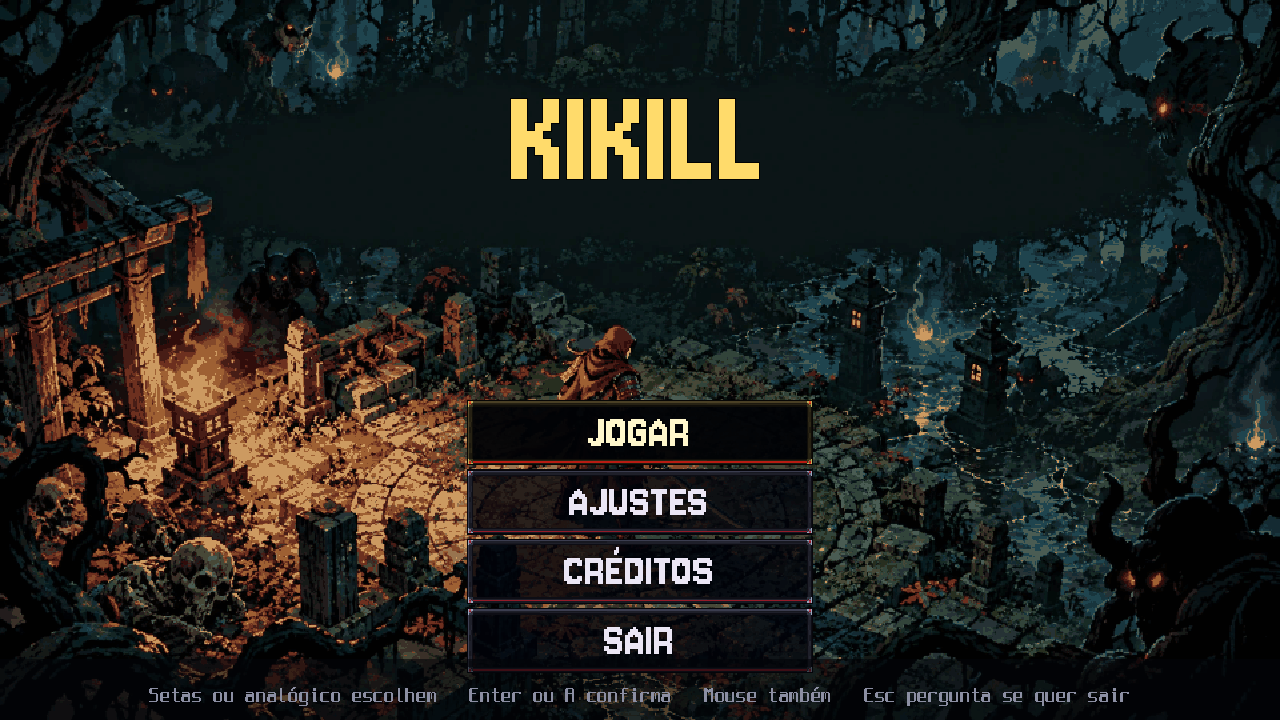
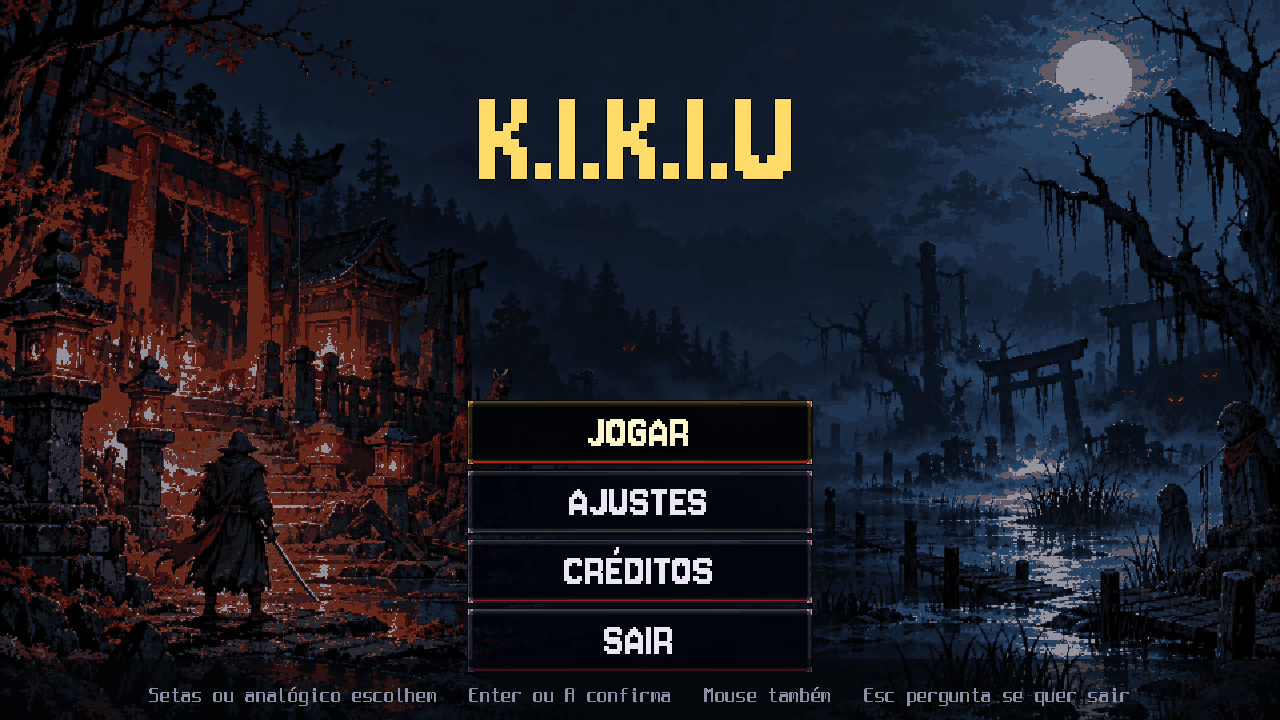
v2 menu: nome K.I.K.I.U e arte nova de título (GPT, Alisson)
- Logo, testes, LEIA-ME e LOGBOOK: o nome do jogo fica K.I.K.I.U (com pontos).
- fonte_arte/fundo_titulo_fonte.webp: arte nova gerada no GPT pelo Alisson. gerar_fundo_titulo.py lê dela (BOX, 48 cores, 960x540) e gera assets/titulo/fundo.png.
- Logo no centro-superior e menu no centro-inferior; a faixa escura só atrás da dica fica (sem ela, o pior 1% dos pixels cai para 1,06:1).
- docs/LICENCAS_ARTE.md: registro da arte como própria, gerada no GPT pelo Alisson.
- docs/imagens/v2_menu_principal.png refeito com --fotos (janela).

Testes (headless, Godot 4.4.1): v2_menu, entrada_cenas e v2_esc com falhas=0.

diff --git a/jogos/hordas/fonte_arte/gerar_fundo_titulo.py b/jogos/hordas/fonte_arte/gerar_fundo_titulo.py
@@ -1,20 +1,23 @@
-"""Gera o fundo da tela de título da v2 (v2/menu_principal.tscn): a arte da entrada, sem o título K.I.K.I.U, em 960x540.
+"""Gera o fundo da tela de título da v2 (v2/menu_principal.tscn): a arte sem o título K.I.K.I.U, em 960x540.
 
 Roda:  python gerar_fundo_titulo.py          (precisa de Pillow)
-Entrada: entrada_fonte.webp (arte do Alisson, 1672x941, com a faixa escura vazia no terço de cima para o logo)
+Entrada: fundo_titulo_fonte.webp (arte gerada no GPT pelo Alisson, 1672x941; o centro-superior e o centro-inferior são escuros,
+         livres para o logo e o menu)
 Saída:   ../projeto/assets/titulo/fundo.png
 
 Mesmo pipeline do gerar_entrada.py (recorte 16:9, redução BOX, 48 cores com mediana de corte e sem dithering), só que no
-tamanho da tela da v2 (960x540) e sem desenhar o título: o logo KIKILL e os botões são desenhados pelo Godot por cima.
+tamanho da tela da v2 (960x540) e sem desenhar o título: o logo K.I.K.I.U e os botões são desenhados pelo Godot por cima.
+A arte não tem grade de pixel fixa (conferido: a troca de cor não se concentra em nenhum resto de x ou y), por isso BOX e não NEAREST.
 """
 
 import os
 
 from PIL import Image
 
-from gerar_entrada import FONTE_ARTE, recortar_16_9
+from gerar_entrada import recortar_16_9
 
 AQUI = os.path.dirname(os.path.abspath(__file__))
+FONTE = os.path.join(AQUI, "fundo_titulo_fonte.webp")
 SAIDA = os.path.join(AQUI, "..", "projeto", "assets", "titulo", "fundo.png")
 
 W, H = 960, 540
@@ -22,7 +25,7 @@ CORES = 48
 
 
 def main():
-    arte = recortar_16_9(Image.open(FONTE_ARTE).convert("RGB"))
+    arte = recortar_16_9(Image.open(FONTE).convert("RGB"))
     img = arte.resize((W, H), Image.Resampling.BOX)
     img = img.quantize(colors=CORES, method=Image.Quantize.MEDIANCUT, dither=Image.Dither.NONE).convert("RGB")
     os.makedirs(os.path.dirname(SAIDA), exist_ok=True)

diff --git a/jogos/hordas/projeto/v2/LEIA-ME.md b/jogos/hordas/projeto/v2/LEIA-ME.md
@@ -31,7 +31,7 @@ Rodar: o jogo já abre na v2 (a cena principal é o título, `res://v2/menu_prin
 | `hud.gd/.tscn` | HUD numa CanvasLayer (layer 10) dentro da apresentação, sem luz do mundo. Vida, fôlego, XP com selo de nível (almas rolam na barra), tempo que pisca a cada minuto, abates, vivos, combo com soco e cor por marco, brilho e pop ao subir de nível com anel de luz, vinheta e pisca da vida abaixo de 25%, barra de chefe com fantasma (`chefe_apareceu`, `chefe_vida`). Liga cada sinal do mundo só se ele existir. Lê `mundo` e `mundo.heroi` com `get()` e valor padrão. `criar(mundo)` é a linha do `mundo.gd`. Molduras e barras em `hud/` (PNG gerados por `hud/gerar_molduras.py`, Pillow). |
 | `hud_anuncios.gd` | Faixa de anúncio no centro alto (um por vez, fila de até 5). Entra com escala 1,4 e brilho, segura ~1,2 s e sai. Cor por tipo: `onda_forte` vermelho, `elite_apareceu` roxo, `evolucao` dourado, nível azul-claro, `anuncio(texto, cor)` livre. Marcos de combo (10, 25, 50, 100, 200) mudam a intensidade. Um nó só, sem nó por anúncio. |
 | `status.gd` | Card "SUA BUILD": tudo o que a build faz, em números reais. `Status.coletar(mundo)` (estática, sem desenhar) devolve as seções em dados simples (herói, katana, golpes automáticos, partida e Santuário), cada linha com o texto e os números crus (`n`); nenhuma fórmula é copiada: cada número vem do getter do módulo dono (`heroi.vel_andar/vel_correr/alcance_ima/duracao_do_passo`, `combate.dano_do_passo/alcance_efetivo_do_passo/arco_do_passo/chance_critico/ciclo_do_combo/passos_de`, `progresso.cura_por_nivel`, `armas.numeros/pct_onda/dano_da_onda/dano_da_lanca/n_lancas`, `cartas.evolucoes_com`, `Meta.almas_creditadas`), e o jogo usa os mesmos getters. Como ler os números: "Combo completo" é o ciclo REAL (os passos com a velocidade de ataque + o hit-stop de cada acerto + a pausa do fim do combo), nos quadros de 60 Hz (`combate.ciclo_do_combo`); "Alcance" é o efetivo (alcance com a área + o avanço do golpe); o crítico para em 100% e os percentuais ganham uma casa decimal só quando precisam (17,5%); "Almas a receber" é o que o fim da partida credita (com o bônus "Almas abundantes"); "Recupera em ação" é a taxa do fôlego andando OU golpeando (a rápida só vale livre e parado); a onda mostra o dano de cada corte do combo e a lança o de cada estocada (pelo NOME do passo); o "poder ~" é uma ESTIMATIVA de dano por segundo por monstro (veja `armas.numeros`: a runa conta só as que nascem sobre o monstro, o arco elétrico da Revoada fica de fora, a explosão em área bate em todos em volta). As dicas de evolução dizem "Evolução perdida" quando uma peça foi banida abaixo do nível pedido, e a peça gasta na Ventania mostra "evoluída" em vez de um nível parado. TRÊS modos (`_modo()`): **hud** (a tecla C na partida liga e desliga um card COMPACTO na camada 8, abaixo do HUD: semitransparente, uma linha por golpe e por modificador com ícone, nome curto (`curto` em `v2_cartas.json`), nível e número, sem dicas e sem as linhas que o HUD já mostra; as colunas ficam fora do minimapa, do combo, da barra de XP, da barra do chefe e dos anúncios; cabe com a build máxima, o que o teste prova), **pausa** (as colunas ladeiam o menu na tela "menu", camada 15, layout completo com as dicas; somem em Ajustes e nas confirmações, `pausa.gd` chama `status.na_pausa`) e **central** (sobre a escolha de cartas e o baú o C abre um painel de três colunas no layout completo, camada 13, com o fundo opaco: ele ESCONDE as cartas, nada fica pela metade; enquanto está aberto o card engole clique, tecla e botão, menos o ESC, então nenhuma carta é escolhida, rerrolada ou banida, e a trava de 3 s das cartas segue correndo em tempo real; com o painel fechado o card compacto some nessas telas, porque cobriria a 1ª e a 3ª carta, e volta quando elas fecham). Texto longo quebra em linhas e o teste cobre a build vazia, a de meio de partida, a máxima e o Santuário todo comprado nos três modos (nada estoura a largura nem é cortado na altura). Atualiza a 4 Hz com um `Timer` que só corre com o card ligado (sem `_process`); desenho num Control só (nenhum nó por linha): moldura de `hud/moldura_pedra.png`, títulos na Jersey 10, texto na Spleen 8x16 e números na Press Start 2P. PENDÊNCIA: o texto do card sai na Spleen em 11 e 12 px, fora da grade de 16 px da regra das fontes (em 16 px as colunas não cabem); legível nos prints, e o tamanho certo seria a Spleen 6x12, da mesma família. A entrada do C vem do `mundo.gd` (`status.entrada(e)`), porque os nós dentro do SubViewport da partida não recebem a entrada da janela. Risco que fica: `armas.numeros` ainda é uma segunda cópia da conta de cada golpe automático (o teste confere cada tipo contra a simulação) e `_sec_heroi` calcula as esquivas seguidas (fôlego máximo / gasto) como o `pode_esquivar` do herói. |
-| `menu_principal.gd/.tscn` | Tela de título, a cena principal (`project.godot`): logo KIKILL sobre a arte de entrada (`assets/titulo/fundo.png`, gerada por `fonte_arte/gerar_fundo_titulo.py`) e Jogar (vai ao santuário), Ajustes (o submenu da pausa), Créditos (a tela da pausa) e Sair (pede confirmação). Mouse, teclado e controle; ESC e Start pedem "Sair?". Toca a faixa do santuário. `testes/v2_menu` cobre a tela. |
+| `menu_principal.gd/.tscn` | Tela de título, a cena principal (`project.godot`): logo K.I.K.I.U sobre a arte de título (`assets/titulo/fundo.png`, gerada por `fonte_arte/gerar_fundo_titulo.py` a partir de `fonte_arte/fundo_titulo_fonte.webp`) e Jogar (vai ao santuário), Ajustes (o submenu da pausa), Créditos (a tela da pausa) e Sair (pede confirmação). Mouse, teclado e controle; ESC e Start pedem "Sair?". Toca a faixa do santuário. `testes/v2_menu` cobre a tela. |
 | `altar.gd/.tscn` | Santuário (depois do título; `--v2` abre aqui; Entrar vai para `mundo.tscn`). O botão `< MAPA >` ao lado de ENTRAR escolhe o mapa da próxima partida (clique ou Enter troca na ordem de `Mapas.LISTA`; o texto de ENTRAR acompanha: ENTRAR NA FLORESTA, ENTRAR NO LABORATÓRIO). Compra de melhorias permanentes com almas (nível atual, próximo efeito e custo), conquistas com cadeado, resumo da última partida. Funciona com mouse, teclado e controle. Visual: arte de entrada escurecida e molduras de pedra (`hud/moldura_pedra.png`). |
 | `trilha.gd` | Música de fundo. Escolhe a faixa de cada MOMENTO (santuário, partida, chefe, resultado; `dados/v2_musica.json`) e pede ao `Som` (autoload) a troca com crossfade. Santuário: `Trilha.new()` no `altar.gd` e `tocar("santuario")`. Partida: o `mundo.gd` cria uma e chama `ligar(self)` (só no modo livre: medir e fotografar ficam mudos), que segue os sinais `chefe_apareceu` (toca a do chefe), `chefe_vida` a 0 (mini-chefe caiu: volta a da partida; o chefe final cai com a vitória em curso e a faixa dele segue até o resultado) e `partida_terminou` (resultado); `reiniciar` volta a da partida. O volume é o do slider Música da pausa (Ajustes > Áudio): grava em `opcoes.cfg` e move o bus `Musica`, criado pelo `scripts/hordas/som.gd` (o fade entre faixas fica nos players; o volume das Opções, no bus; 0 silencia o bus). Faixas, origem e licença: `docs/LICENCAS_AUDIO.md` (CC BY 4.0, Kevin MacLeod; o crédito aparece no rodapé da tela Áudio da pausa). |
 | `meta.gd` | Meta-progressão entre partidas: saldo de almas e melhorias em `user://v2_progresso.cfg` (save separado da v1), compra, conquistas por marcos e `aplicar(mundo)`, que põe as melhorias nos valores iniciais do herói (uma linha no `_montar` do mundo, e outra no `reiniciar`). `registrar_partida` soma as almas da partida. Regras e textos em `dados/v2_meta.json`. |

diff --git a/LOGBOOK.md b/LOGBOOK.md
@@ -1310,7 +1310,7 @@ _Claude do Alisson (nuvem)_
 _Claude do Alisson (notebook)_
 
 ## 2026-10-12 (7) · Claude do Alisson (PC) · v2: menu principal (título antes do santuário)
-- **Feito:** a cena principal da v2 agora é o título, `v2/menu_principal.tscn` (antes abria no santuário). Logo KIKILL em Jersey 10 (112 px) sobre o fundo `assets/titulo/fundo.png`, com Jogar (vai ao santuário), Ajustes (o submenu da pausa: Gráficos e Áudio), Créditos (a tela de Créditos da pausa) e Sair (pede confirmação). Mouse, teclado e controle; ESC e Start abrem "Sair?" com "Não" marcado, sem fechar o jogo de surpresa. O título toca a faixa do santuário (`menu`), que não recomeça quando o santuário abre.
+- **Feito:** a cena principal da v2 agora é o título, `v2/menu_principal.tscn` (antes abria no santuário). Logo K.I.K.I.U em Jersey 10 (112 px) sobre o fundo `assets/titulo/fundo.png`, com Jogar (vai ao santuário), Ajustes (o submenu da pausa: Gráficos e Áudio), Créditos (a tela de Créditos da pausa) e Sair (pede confirmação). Mouse, teclado e controle; ESC e Start abrem "Sair?" com "Não" marcado, sem fechar o jogo de surpresa. O título toca a faixa do santuário (`menu`), que não recomeça quando o santuário abre.
 - **Fundo:** `jogos/hordas/fonte_arte/gerar_fundo_titulo.py` gera o fundo a partir de `entrada_fonte.webp` (960x540, 48 cores) sem o "K.I.K.I.U" que `gerar_entrada.py` desenha por cima. Não havia arte de título pronta; as capturas de partida (com HUD) não serviram. Registrado em `docs/LICENCAS_ARTE.md`. O prompt para uma arte de título nova está no corpo do PR da branch `alisson/v2-menu-principal`.
 - **Controle:** o InputMap da v2 não tinha o A em `ui_accept` nem o B em `ui_cancel` (só o D-pad e o analógico). `v2/entrada.gd` (`garantir()`) acrescenta os dois quando faltam, então o "Enter ou A confirma" do santuário passa a valer. A v1 não chama `garantir()`.
 - **Pausa (`v2/pausa.gd`):** novo sinal `fechou` (o título devolve o foco ao botão que abriu) e `abrir_creditos()`, em que o Voltar fecha direto sem passar por Ajustes. O resto da pausa não muda.
@@ -1323,3 +1323,10 @@ _Claude do Alisson (notebook)_
 - **Nao conferi:** o gosto da intensidade da sombra (e 1,1, comp 0,6 no JSON): ajuste visual do Alisson.
 
 _Claude do Alisson (PC)_
+
+## 2026-10-12 - Menu principal: arte nova do GPT e nome K.I.K.I.U (PR #215)
+- **Feito:** o nome do jogo no menu, nos testes, no LEIA-ME e neste log é K.I.K.I.U (com pontos). A arte de título nova, gerada no GPT pelo Alisson, está versionada em `jogos/hordas/fonte_arte/fundo_titulo_fonte.webp`. `gerar_fundo_titulo.py` lê dela, reduz para 960x540 com BOX e 48 cores e gera `assets/titulo/fundo.png`. Medido antes: a arte não tem grade de pixel fixa, então BOX e não NEAREST. O logo fica no centro-superior sobre o céu escuro (12,9:1 sem faixa), o menu no centro-inferior, sem cobrir o herói. A faixa escura atrás da dica ficou: sem ela o pior 1% dos pixels cai para 1,06:1 e com ela sobe para 3,34:1. Registro em `docs/LICENCAS_ARTE.md` como arte própria gerada no GPT pelo Alisson.
+- **Testes:** `v2_menu`, `entrada_cenas` e `v2_esc` com `falhas=0` (headless). O print `docs/imagens/v2_menu_principal.png` foi refeito com `--fotos` (com janela).
+- **Pendente:** olhar o print num monitor real (PC e notebook): a dica é pequena e o print é 1280x720.
+
+_Claude do Breno (PC)_

diff --git a/docs/LICENCAS_ARTE.md b/docs/LICENCAS_ARTE.md
@@ -34,6 +34,6 @@ Além da licença, o item tem de combinar com o jogo: pixel art 2.5D a 45 graus,
 | `assets/audio/musica/*.ogg` | música | Kevin MacLeod (incompetech.com) | incompetech.com | CC BY 4.0 | sim (Créditos e `LICENCAS_AUDIO.md`) | cortes, laço, ganho, OGG | 2026-10-12 |
 | ~~`assets/fonte/pixelify_sans/`~~ | removida em 2026-10-12 (o 5 saía como S: "500" lia-se "800"); trocada pela Spleen | The Pixelify Sans Project | Google Fonts (Pixelify Sans) | SIL OFL 1.1 | - | - | 2026-10-11 |
 | `assets/fonte/spleen/spleen-8x16.otf` | texto corrido e valores da v2 (`Dados.fonte_texto`), sempre em 16 px | Frederic Cambus | https://github.com/fcambus/spleen (release 2.2.0) | BSD de 2 cláusulas | sim: aviso de copyright e texto da licença (`LICENSE.txt` ao lado; linha na tela de Créditos) | nenhuma | 2026-10-12 |
-| `assets/titulo/fundo.png` | fundo da tela de título da v2 (`v2/menu_principal.tscn`) | Alisson (arte própria; origem `jogos/hordas/fonte_arte/entrada_fonte.webp`, a mesma da tela de entrada) | próprio projeto | própria (sem licença de terceiros) | não | recorte 16:9 reduzido a 960x540 (BOX), 48 cores sem dithering e sem o título K.I.K.I.U (`fonte_arte/gerar_fundo_titulo.py`) | 2026-10-12 |
+| `assets/titulo/fundo.png` | fundo da tela de título da v2 (`v2/menu_principal.tscn`) | Alisson: arte própria gerada no GPT (prompt no corpo do PR #215) | arte gerada no GPT pelo Alisson, versionada em `jogos/hordas/fonte_arte/fundo_titulo_fonte.webp` (1672x941) | própria (sem licença de terceiros) | não | recorte 16:9 reduzido a 960x540 (BOX), 48 cores sem dithering e sem o título K.I.K.I.U (`fonte_arte/gerar_fundo_titulo.py`) | 2026-10-12 |
 
 (Itens novos entram no fim da tabela.)
